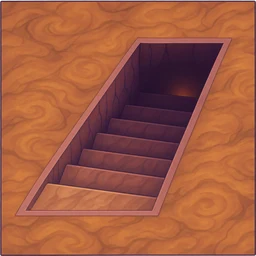
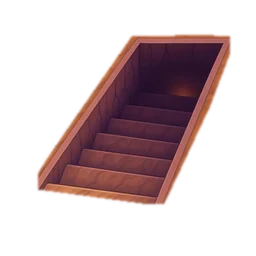
リカリア：テストプレイで見つけた5つを直す（万象の理は自分のMPを満タンにしない・星墜としはボスに少なくとも12%・地図の裏ダンジョンのボタンをいつも見える所に・階段の絵の床をすき通らせる・準備画面とロビーに上級職の絵）

diff --git a/quest.html b/quest.html
@@ -101,7 +101,8 @@
   /* タイトルへもどる（町の右上に、目立つ色で。2026-11-16） */
   .btn.totitle { text-decoration:none; background:rgba(255,226,122,.95); color:#2a1280; }
   .wm-tabs { display:flex; gap:.4em; }
-  #wmGo { font-size:1.15em; padding:.45em 1.2em; }
+  #wmGo, #wmUd { font-size:1.15em; padding:.45em 1.2em; white-space:nowrap; }
+  .wm-go { position:sticky; bottom:-.2em; display:flex; flex-direction:column; background:#140d38; box-shadow:0 -.5em .6em #140d38; padding-bottom:.3em; }
   .wm-hint { width:100%; box-sizing:border-box; background:rgba(255,226,122,.95); color:#2a1280; font-weight:900; font-size:1.1em; text-align:center; border-radius:.6em; padding:.35em 1em; white-space:normal; }
   .src { display:flex; flex-direction:column; gap:.3em; }
   .src label { display:flex; align-items:center; gap:.4em; font-weight:800; font-size:.92em; flex-wrap:wrap; }
@@ -1130,14 +1131,15 @@ function drawWorld() {
     var g2 = el('button', 'btn', 'このダンジョンへ'); g2.id = 'wmGo'; g2.onclick = function () {
       if (SRC.k === 'sets' && !Object.keys(PICKS).length) { setDialog(a); return; }
       goArea(a, clone(SRC.k === 'sets' ? { k: 'sets', ids: Object.keys(PICKS) } : SRC));
-    }; p.appendChild(g2);
+    };
     /* 裏ダンジョン（2026-11-23）：単元マスターの称号を3つ（どの単元でも）持つと入れる。10階・敵が強い */
     var uid1 = unitOf(a.g, a.unit).id, mc = masterCount(ch), uf1 = ch.uf && ch.uf[uid1];
-    var g3 = el('button', 'btn ud-go' + (udOpen(ch) ? '' : ' lock'), udOpen(ch) ? '👁 裏ダンジョンへ（10階）' : '🔒 裏ダンジョン'); g3.id = 'wmUd'; g3.type = 'button';
-    p.appendChild(g3);
+    var g3 = el('button', 'btn ud-go' + (udOpen(ch) ? '' : ' lock'), udOpen(ch) ? '👁 裏ダンジョンへ' : '🔒 裏ダンジョン'); g3.id = 'wmUd'; g3.type = 'button';
     p.appendChild(el('div', 'mut ud-note', udOpen(ch)
       ? '敵がとても強い10階のダンジョン（深いほど強い）。' + (uf1 > UD_FLOORS ? '👁 制覇した！' : uf1 ? uf1 + '階までたどり着いた。' : '') + (me.g === 3 ? '入試の重要語句の問題もまざる。' : '')
       : '単元マスターの称号を ' + UD_NEED + 'つ 集めると入れる（いま ' + mc + 'つ）。称号は、1つの単元で 30問以上答えて、正解率90%以上・10問連続正解でもらえる。'));
+    /* 2つのボタンは、箱の下にいつも見えるようにとめる（裏ダンジョンのボタンが箱の下に切れて、スクロールしないと見えなかった。2026-11-24 テストプレイ） */
+    var gw = el('div', 'wm-go'); gw.appendChild(g2); gw.appendChild(g3); p.appendChild(gw);
     g3.onclick = function () { if (!udOpen(ch)) { g3.classList.remove('shake'); void g3.offsetWidth; g3.classList.add('shake'); return; } goArea(a, { k: 'ud' }); };
   }
   side.textContent = ''; side.appendChild(p);
@@ -1334,8 +1336,8 @@ function soloDesc(s, r) {
   if (s.promise) a.push((s.promise > 1 ? s.promise + '問のあいだ' : '次の1問') + ' まちがえても正解あつかい');
   if (s.q4) a.push(s.q4 + '問のあいだ いつも苦手をつく');
   if (s.inv) a.push(s.inv + '問のあいだ ダメージを受けない');
-  if (s.mpFill) a.push('MPが満タン');
-  if (s.hpCut) a.push('ボスの今のHPを' + pc(s.hpCut) + 'けずる');
+  if (s.mpFill) a.push('なかまのMPを満タン（チーム戦）');
+  if (s.hpCut) a.push('ボスには少なくとも今のHPの' + pc(s.hpCut));
   if (s.ignoreBar) a.push('バリアを無視');
   if (s.streakUp) a.push('連続 +' + s.streakUp + '（最大まで）');
   if (s.gate) a.push('火→水→風→土の順');
@@ -1704,7 +1706,6 @@ function act(i) {
   if (s.promise) { f.prom = Math.max(f.prom, s.promise); notes.push('天の約束！ ' + (s.promise > 1 ? s.promise + '問のあいだ' : '次の1問は') + ' まちがえても正解あつかい'); }
   if (s.q4) { f.q4 = s.q4 + 1; notes.push(s.q4 + '問のあいだ、いつも苦手な精霊で攻撃'); }
   if (s.inv) { f.inv = s.inv + 1; notes.push(s.inv + '問のあいだ ダメージを受けない'); }
-  if (s.mpFill) { MP = st.mmp; notes.push('MPが満タンになった'); }
   if (s.streakUp) { B.streak = Math.min(J.streakMax || 99, B.streak + s.streakUp); notes.push('連続正解が ' + B.streak + ' に！'); }
   /* 攻撃 */
   var total = 0, anyCrit = false, anyWeak = false;
@@ -1727,7 +1728,7 @@ function act(i) {
       var crit = Math.random() < (s.crit || f.nextCrit > 0 ? 1 : (J.crit || .1) + (st.crit || 0));
       if (f.nextCrit > 0 && !s.ult) f.nextCrit--;
       if (crit) { d *= s.ult ? 1.3 : 1.8; anyCrit = true; }
-      if (s.hpCut && B.boss) { d = B.hp * s.hpCut; anyCrit = true; }   /* 天弓・星墜とし：ボスは今のHPの割合を必ずけずる */
+      if (s.hpCut && B.boss) d = Math.max(d, B.hp * s.hpCut);   /* 天弓・星墜とし：ボスには、少なくとも今のHPの割合をけずる */
       d = Math.max(1, Math.round(d)); B.hp = Math.max(0, B.hp - d); total += d; done++;
     }
     if (s.useStreak) B.streak = 0;

diff --git a/rikaria-data.js b/rikaria-data.js
@@ -179,7 +179,7 @@ export var PROMO = {
  *   wall 次の問題まで、班への攻撃を自分が受ける（半分にして、同じだけはね返す）・free 次の n 問、自分の技のMPが0
  *   promise 次の n 問、まちがえても正解あつかい（班全員）・q4 次の n 問、自分の攻撃がいつも苦手をつく（4つの精霊）
  * 隠し技（技の番号 HID_SK＝16）：昇格して Lv150 になると覚える。覚えるまでは、どの画面にも出さない
- *   inv 班全員 n 問ダメージを受けない・mpFill 班全員のMPを満タン・hpCut ボス・番人の今のHPの割合を必ずけずる（ほかは pow の会心）
+ *   inv 班全員 n 問ダメージを受けない・mpFill 自分以外の班員のMPを満タン・hpCut ボス・番人には、少なくとも今のHPのその割合をけずる（pow の会心と大きいほう）
  *   ignoreBar バリアを完全に無視・streakUp 連続正解を n ふやす（最大は職業の streakMax のまま）・gate 火→水→風→土の順に1回ずつ攻撃 */
 export var HID_SK = 16, HID_LV = 150;
 [['warrior', '聖盾ホーリーウォール', '必殺技（聖騎士）：次の問題まで、班への攻撃を全部自分が受ける。受けるダメージは半分になり、同じだけ敵にはね返す', '20', { wall: 1, ult: 1 }],
@@ -190,9 +190,9 @@ export var HID_SK = 16, HID_LV = 150;
  ['summoner', '四精霊の王', '必殺技（精霊王）：敵全体を攻撃。次の5問のあいだ、自分の攻撃がいつも敵の苦手な精霊になる', '23', { pow: 2.4, all: 1, quad: 1, q4: 5, ult: 1 }]
 ].forEach(function (x) { JOBS[x[0]].sk[PRO_SK] = S(PRO_LV, 5, [x[1], x[1], x[1]], x[2], x[3], Object.assign({ pro: 1 }, x[4])); });
 [['warrior', '聖剣解放・ラストクルセイド', '隠し技（聖騎士）：ゲームでいちばん強い一撃を敵全体に。3問のあいだ、班のみんなはダメージを受けない', '20', { pow: 8, all: 1, inv: 3, ult: 1 }],
- ['mage', '万象の理', '隠し技（賢者）：敵全体に特大ダメージ。班のみんなのMPを満タンにする', '18', { pow: 5, all: 1, mpFill: 1, ult: 1 }],
+ ['mage', '万象の理', '隠し技（賢者）：敵全体に特大ダメージ。班のなかまのMPを満タンにする（自分はのぞく）', '18', { pow: 6.5, all: 1, mpFill: 1, ult: 1 }],
  ['priest', '天地創造の祈り', '隠し技（大司教）：倒れた仲間も起こして、班のみんなを全回復。5問のあいだ、まちがえても正解あつかい', '21', { heal: 1, revive: 1, promise: 5, ult: 1 }],
- ['hunter', '天弓・星墜とし', '隠し技（天弓使い）：ボスの今のHPを必ず30%けずる（ほかの敵には必ず会心の大ダメージ）。バリアを無視する', '22', { pow: 5, crit: 1, hpCut: .3, ignoreBar: 1, pierce: 1, ult: 1 }],
+ ['hunter', '天弓・星墜とし', '隠し技（天弓使い）：ねらった敵1体に、必ず会心の特大ダメージ。ボス・番人には、少なくとも今のHPの12%をけずる。バリアを無視する', '22', { pow: 7, crit: 1, hpCut: .12, ignoreBar: 1, pierce: 1, ult: 1 }],
  ['monk', '拳聖・無限連撃', '隠し技（拳聖）：連続正解をいっきに＋10（最大まで）。その数だけ強い攻撃を敵全体に（連続は へらない）', '14', { pow: 2.4, all: 1, streakUp: 10, streakX: .3, ult: 1 }],
  ['summoner', '精霊界の扉', '隠し技（精霊王）：火→水→風→土の順に、敵全体を4回攻撃。苦手な精霊なら大ダメージ', '23', { pow: 1.3, all: 1, hits: 4, gate: 1, ult: 1 }]
 ].forEach(function (x) { JOBS[x[0]].sk[HID_SK] = S(HID_LV, 5, [x[1], x[1], x[1]], x[2], x[3], Object.assign({ pro: 1, hid: 1 }, x[4])); });

diff --git a/rikaria-engine.js b/rikaria-engine.js
@@ -249,7 +249,7 @@ export function skill(G, id, i) {
   if (s.promise) { G.grp.prom = G.grp.prom || {}; team.forEach(function (o) { G.grp.prom[o.id] = Math.max(G.grp.prom[o.id] || 0, s.promise); }); emit(G, { t: 'ban', s: '天の約束！ ' + s.promise + '問のあいだ、まちがえても正解あつかい', big: 1 }); }
   if (s.q4) { m.q4 = s.q4; emit(G, { t: 'ban', s: '四精霊の王！ ' + s.q4 + '問のあいだ、いつも苦手をつく', big: 1 }); }
   if (s.inv) { G.grp.inv = { t: s.inv * 5 }; emit(G, { t: 'ban', s: '聖剣の光！ しばらく班のみんなはダメージを受けない', big: 1 }); }
-  if (s.mpFill) { team.forEach(function (o) { if (!o.dn) o.mp = o.mm || MP_MAX; }); emit(G, { t: 'ban', s: '万象の理！ 班のみんなのMPが満タンになった', big: 1 }); }
+  if (s.mpFill) { team.forEach(function (o) { if (o !== m && !o.dn) o.mp = o.mm || MP_MAX; }); emit(G, { t: 'ban', s: '万象の理！ 班のなかまのMPが満タンになった', big: 1 }); }   /* 自分はのぞく（自分も満タンだと毎問使えた。2026-11-24 テストプレイ） */
   if (s.streakUp) { m.streak = Math.min(JOBS[m.j].streakMax || 99, m.streak + s.streakUp); emit(G, { t: 'ban', s: m.name + ' の連続正解が ' + m.streak + ' に！' }); }
   if (s.nextCrit) m.nextCrit = 1 + r;
   if (s.keep) m.keep = 1;
@@ -287,10 +287,6 @@ function hit(G, m, s, P, k, name, fx) {
   var J = JOBS[m.j], buff = G.grp.buff ? G.grp.buff.x : 1;
   targets.forEach(function (f) {
     var base = N.base * (m.atk / 9) * lvMult(m.lv) * buff * (0.9 + Math.random() * .2);
-    if (s.hpCut && (f.fin || f.gd)) {   /* 天弓・星墜とし：ボス・番人は今のHPの割合を必ずけずる（ほかの倍率は乗せない） */
-      var dc = Math.max(1, Math.round(f.hp * s.hpCut)); f.hp = Math.max(0, f.hp - dc); m.rw.dmg += dc;
-      emit(G, { t: 'hit', who: m.id, i: G.foes.indexOf(f), d: dc, crit: 1, weak: 0, n: name || null, fx: fx || null, ult: 1, j: m.j }); afterHit(G, f); return;
-    }
     var d = s.hpPct ? Math.max(base, f.hp * s.hpPct * P) : base * (s.pow || 1) * P;
     if (s.streakX) d *= 1 + s.streakX * m.streak;
     if (J.streakAtk && !s.useStreak) d *= 1 + J.streakAtk * Math.min(m.streak, J.streakMax);
@@ -309,6 +305,7 @@ function hit(G, m, s, P, k, name, fx) {
     /* バリア */
     if (f.ward > 0) d *= N.bsk.wardCut;
     if (f.barrier && !s.ignoreBar) { if (!s.pierce) { emit(G, { t: 'hit', who: m.id, i: G.foes.indexOf(f), d: 0, guard: 1 }); return; } d *= .5 * (s.barrierX || 1); }
+    if (s.hpCut && (f.fin || f.gd)) d = Math.max(d, f.hp * s.hpCut);   /* 天弓・星墜とし：ボス・番人には、少なくとも今のHPの割合をけずる（前は必ず30%で、チーム戦では強すぎ・ひとりでは弱すぎた。2026-11-24 テストプレイ） */
     d = Math.max(1, Math.round(d));
     f.hp = Math.max(0, f.hp - d); m.rw.dmg += d;
     if (s.stun) f.stun = Math.max(f.stun, s.stun * (P > 1 ? 1.2 : 1));

diff --git a/rikaria-play.html b/rikaria-play.html
@@ -280,7 +280,7 @@ async function joinRoom() {
   onValue(ref(db, 'rooms/' + pin + '/kicked/' + uid), function (s) { if (s.val()) msg('この部屋から退出になりました'); });
 }
 /* it＝持っていく持ち物。使ったら「!」を頭に付ける（先生のPCへの合図） */
-function writePlayer() { var p = { nick: ch.n, sid: sid, j: ch.j, lk: ch.lk || 'a', lv: ch.lv || 1, gp: gp, rd: ready }; if (item) p.it = (itemUsed ? '!' : '') + item; if (PARTY) p.m = JSON.stringify(partyMem()); return set(ref(db, 'rooms/' + pin + '/players/' + uid), p); }
+function writePlayer() { var p = { nick: ch.n, sid: sid, j: ch.j, lk: ch.lk || 'a', lv: ch.lv || 1, gp: gp, rd: ready }; if (ch.pr) p.pr = true; if (item) p.it = (itemUsed ? '!' : '') + item; if (PARTY) p.m = JSON.stringify(partyMem()); return set(ref(db, 'rooms/' + pin + '/players/' + uid), p); }
 /* なかまと冒険：進行役の端末は、ほかの人のキャラを読めない。自分の強さを、部屋に写しておく */
 function partyMem() { var st = statsOf(ch, true); return { name: ch.n, j: ch.j, lk: ch.lk || 'a', lv: ch.lv || 1, atk: st.atk, def: st.def, mhp: st.mhp, cut: st.cut, healX: st.healX, crit: st.crit, mmp: st.mmp, sr: ch.sr || {}, ld: ch.ld || null, pr: ch.pr ? 1 : 0, tt: titleOf(ch), it: carryList(ch).indexOf(item) >= 0 ? item : '' }; }   /* pr 昇格・tt 称号（2026-11-23） */
 function saveChar() { ch.u = TS; lastWrite = Date.now(); return set(ref(db, 'quest/' + state.y + '/chars/' + sid), ch); }
@@ -313,8 +313,8 @@ function drawPrep() {
   var mb = $('ppMates'); mb.textContent = '';
   mates.forEach(function (u) {
     var p = players[u], d = el('div', 'pp-mem' + (u === uid ? ' me' : ''));
-    var im = el('img', 'hero'); im.src = heroImg(p.j, p.lk); im.alt = ''; d.appendChild(im);
-    d.appendChild(el('b', '', p.nick)); d.appendChild(el('small', '', (JOBS[p.j] ? JOBS[p.j].n : '') + ' Lv.' + (p.lv || 1)));
+    var im = el('img', 'hero'); im.src = heroImg(p.j, p.lk, p.pr); im.alt = ''; d.appendChild(im);
+    d.appendChild(el('b', '', p.nick)); d.appendChild(el('small', '', (JOBS[p.j] ? jobLabel(p.j, p.pr) : '') + ' Lv.' + (p.lv || 1)));
     d.appendChild(el('span', 'st ' + (p.rd ? 'ok' : 'wait'), p.rd ? '準備OK' : '準備中'));
     mb.appendChild(d);
   });

diff --git a/quest.css b/quest.css
@@ -580,8 +580,8 @@ img.slot:not(.ok) { visibility:hidden; }
 .btn.sub::before, .btn.ghost::before, .btn.quit::before, .btn.totitle::before { content:none; }
 .btn.sub:hover, .btn.ghost:hover, .btn.quit:hover, button.btn.totitle:hover { background:var(--rk-navy2); color:var(--rk-yel); }
 /* 窓のいちばん下の「行」ボタン（モックの .go）：窓の中にある主役のボタン */
-.card > .btn:not(.sub), .wm-side .panel > .btn, .btn.go { align-self:stretch; width:100%; text-align:left; border:0; border-top:.08em dashed rgba(255,255,255,.3); border-radius:0 0 .4em .4em; box-shadow:none; background:var(--rk-band); padding:.6em .5em; }
-.card > .btn:not(.sub):hover, .wm-side .panel > .btn:hover, .btn.go:hover { background:linear-gradient(90deg, rgba(255,226,122,.34), rgba(255,226,122,.08)); }
+.card > .btn:not(.sub), .wm-side .panel > .btn, .wm-side .wm-go > .btn, .btn.go { align-self:stretch; width:100%; text-align:left; border:0; border-top:.08em dashed rgba(255,255,255,.3); border-radius:0 0 .4em .4em; box-shadow:none; background:var(--rk-band); padding:.6em .5em; }
+.card > .btn:not(.sub):hover, .wm-side .panel > .btn:hover, .wm-side .wm-go > .btn:hover, .btn.go:hover { background:linear-gradient(90deg, rgba(255,226,122,.34), rgba(255,226,122,.08)); }
 .btn.go { display:grid; grid-template-columns:1.2em 1fr; align-items:center; gap:.5em; }
 .btn.go::before { margin:0; justify-self:center; }
 .btn.go small { display:block; font-size:.55em; letter-spacing:.04em; color:#fff; opacity:.8; }
@@ -877,7 +877,7 @@ img.slot:not(.ok) { visibility:hidden; }
 .mt-row.got { border-color:#d4a83a; background:rgba(255,214,90,.12); }
 .mt-row.on { border-color:#ffe27a; box-shadow:0 0 0 2px #ffe27a inset; }
 .mt-row small { font-size:.78em; opacity:.85; }
-.ud-go { margin-top:.4em; background:#5b2bb5; }
+.ud-go { background:#5b2bb5; }
 .ud-go.lock { background:#4a4560; opacity:.8; }
 .ud-note { font-size:.85em; }
 .shake { animation:q-shake .35s; }

diff --git a/rikaria-host.html b/rikaria-host.html
@@ -294,7 +294,7 @@ function renderLobby() {
     var mm = el('div', 'mem-mini');
     g[n].sort(function (a, b) { return num(players[a].sid) - num(players[b].sid); }).forEach(function (u) {
       var p = players[u]; if (!p.rd) all = false;
-      var sp = el('span', p.rd ? '' : 'ko'); var im = el('img'); im.src = heroImg(p.j, p.lk); im.alt = ''; sp.appendChild(im);
+      var sp = el('span', p.rd ? '' : 'ko'); var im = el('img'); im.src = heroImg(p.j, p.lk, p.pr); im.alt = ''; sp.appendChild(im);
       sp.appendChild(document.createTextNode(num(p.sid) + '番 ' + p.nick));
       var x = el('button', 'chip-x', '×'); x.type = 'button'; x.title = '退出させる'; x.setAttribute('aria-label', p.nick + 'を退出させる');
       x.onclick = function () {

diff --git a/tests/rules/gen_rules.py b/tests/rules/gen_rules.py
@@ -276,6 +276,7 @@ rm = R['rules']['rooms']['$pin']
 pl = rm['players']['$uid']
 pl['j'] = {".validate": " || ".join("newData.val() === '%s'" % j for j in JOBS)}
 pl['lv'] = {".validate": "newData.isNumber() && newData.val() >= 1 && newData.val() <= %d" % LV_MAX}   # 2026-11-23：99 までだと Lv100 からチーム戦に入れなかった
+pl['pr'] = {".validate": "newData.val() === true"}   # 昇格のしるし（準備画面・ロビーに上級職の絵を出す。2026-11-24）
 pl['gp'] = {".validate": "newData.isNumber() && newData.val() >= 1 && newData.val() <= 9"}
 HOST = "root.child('rooms').child($pin).child('hostUid').val() === auth.uid"
 # なかまと冒険（生徒が開く部屋）：参加者が自分の強さの写し m を部屋に出す（進行役の端末はほかの人のキャラを読めないため）。JSON文字列で800字まで。
